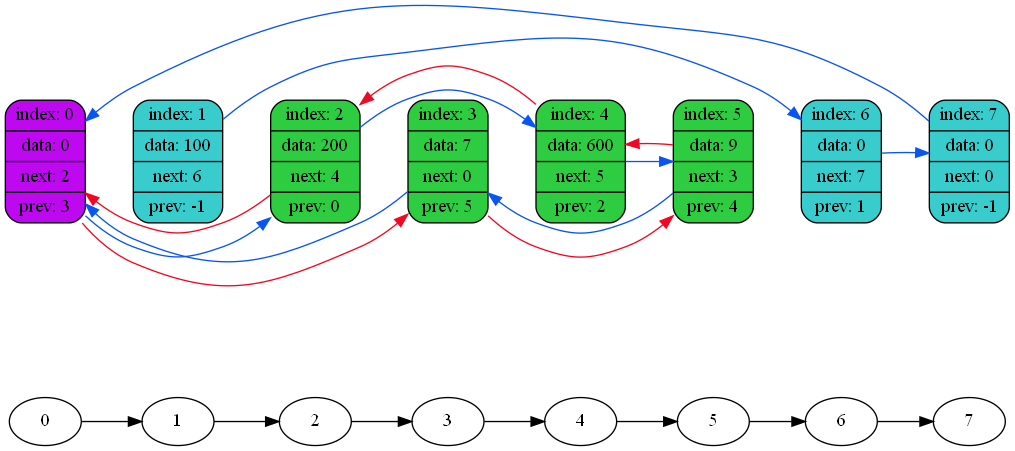
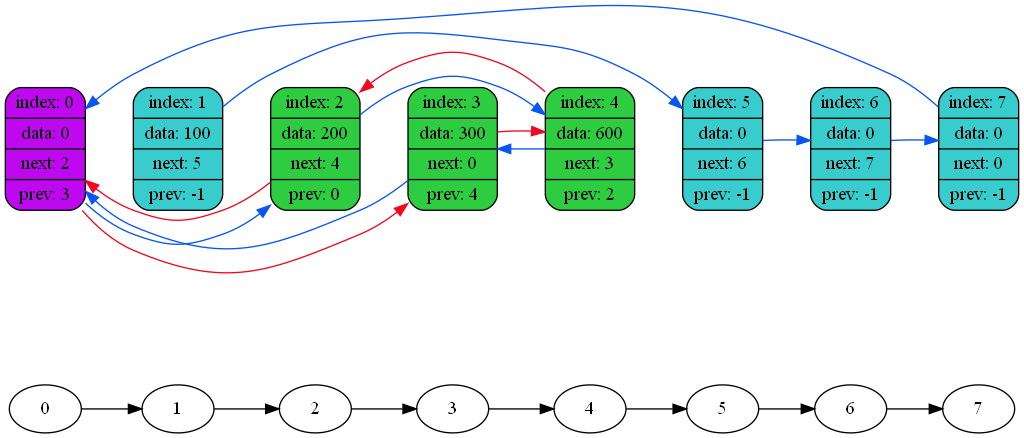
now correct executing

diff --git a/list_dump.html b/list_dump.html
@@ -12,23 +12,23 @@ curr data next prev
 <img src=data\dump1.png>
 MEMORY PRINT
 curr data next prev
-   0    0    2    4
-   1  100    4    2
-   2  200    1    0
-   3  300    5   -1
-   4  600    0    1
-   5    0    6    3
+   0    0    2    3
+   1  100    3    4
+   2  200    4    0
+   3  300    0    1
+   4  600    1    2
+   5    0    6   -1
    6    0    7   -1
    7    0    0   -1
 <img src=data\dump2.png>
 MEMORY PRINT
 curr data next prev
    0    0    2    3
-   1  100    6   -1
+   1  100    5   -1
    2  200    4    0
-   3    7    0    5
-   4  600    5    2
-   5    9    3    4
-   6    0    7    1
+   3  300    0    4
+   4  600    3    2
+   5    0    6   -1
+   6    0    7   -1
    7    0    0   -1
 <img src=data\dump3.png>

diff --git a/src/my_list.cpp b/src/my_list.cpp
@@ -262,13 +262,18 @@ int list_insert_after(list_t* lst, size_t i, int elem)
 int list_erase(list_t* lst, size_t i)
 {
     assert(lst);
+    if (lst -> prev[i] == -1)
+    {
+        fprintf(stderr, "ERROR: Cannot erase free element\n");
+        return -1;
+    }
 
     lst -> prev[NEXT(i)] = lst -> prev[i];
     lst -> next[PREV(i)] = lst -> next[i];
 
     lst -> prev[i] = -1;
     lst -> next[i] = lst -> free;
-    lst -> prev[lst -> free] = i;
+    //lst -> prev[lst -> free] = i;
     lst -> free = i;
 
     if (lst -> prev[0] == 0)

diff --git a/src/main.cpp b/src/main.cpp
@@ -48,12 +48,12 @@ int main ()
     list_dump(&lst, html_stream);
 
     list_insert_after(&lst, 1, 300);
-    list_insert_after(&lst, 3, 600);
-    list_erase(&lst, 3);
+    list_insert_after(&lst, 2, 600);
+    //list_erase(&lst, 3);
     list_dump(&lst, html_stream);
 
-    list_insert_after(&lst, 4, 7);
-    list_insert_after(&lst, 4, 9);
+    //list_insert_after(&lst, 4, 7);
+    //list_insert_after(&lst, 4, 9);
     list_erase(&lst, 1);
 
     list_dump(&lst, html_stream);
